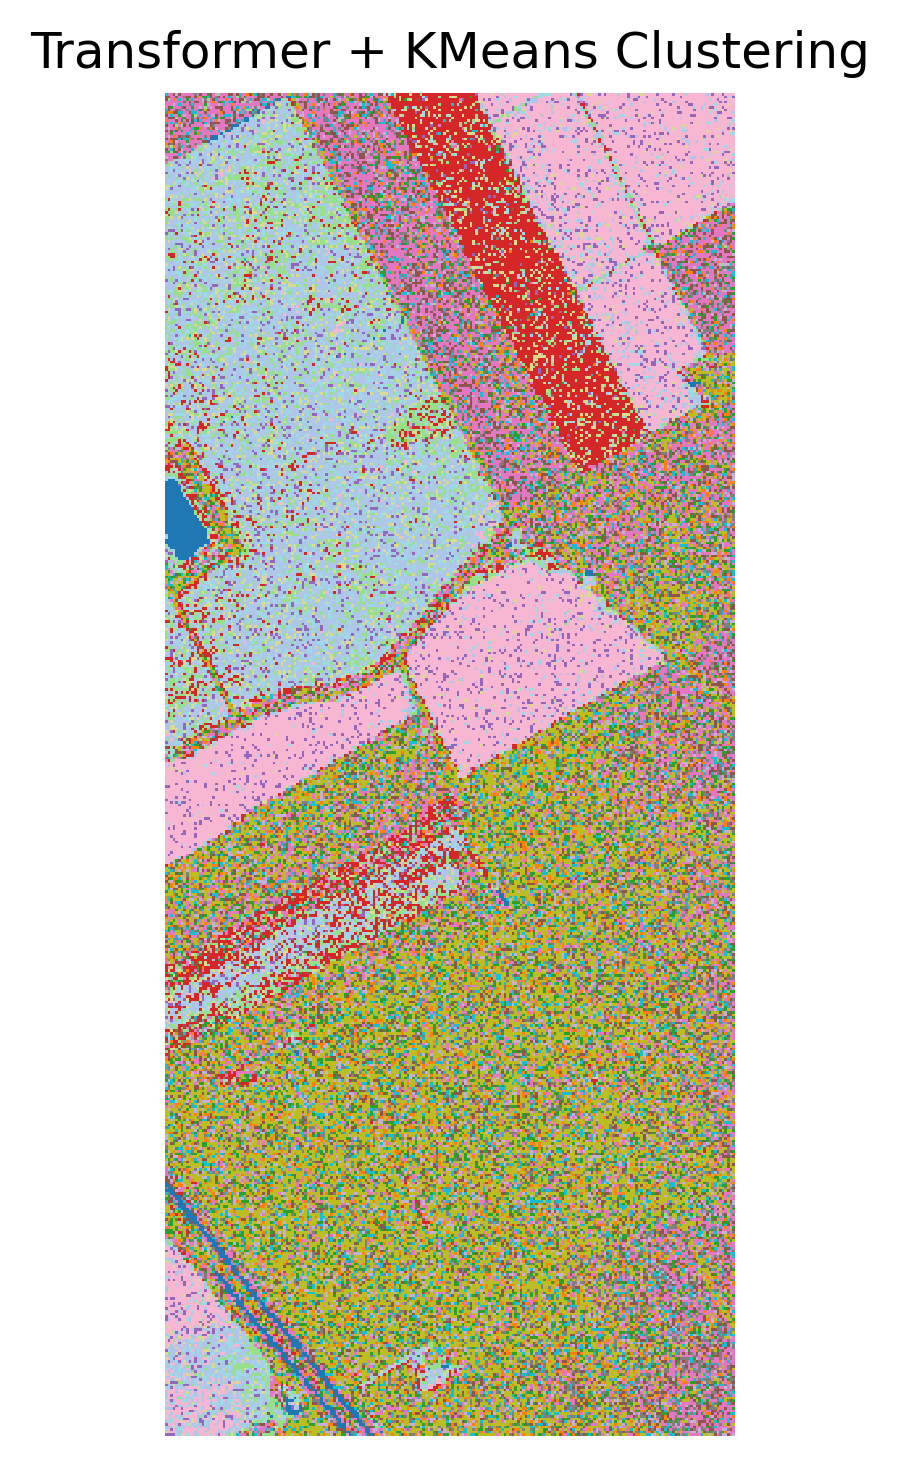
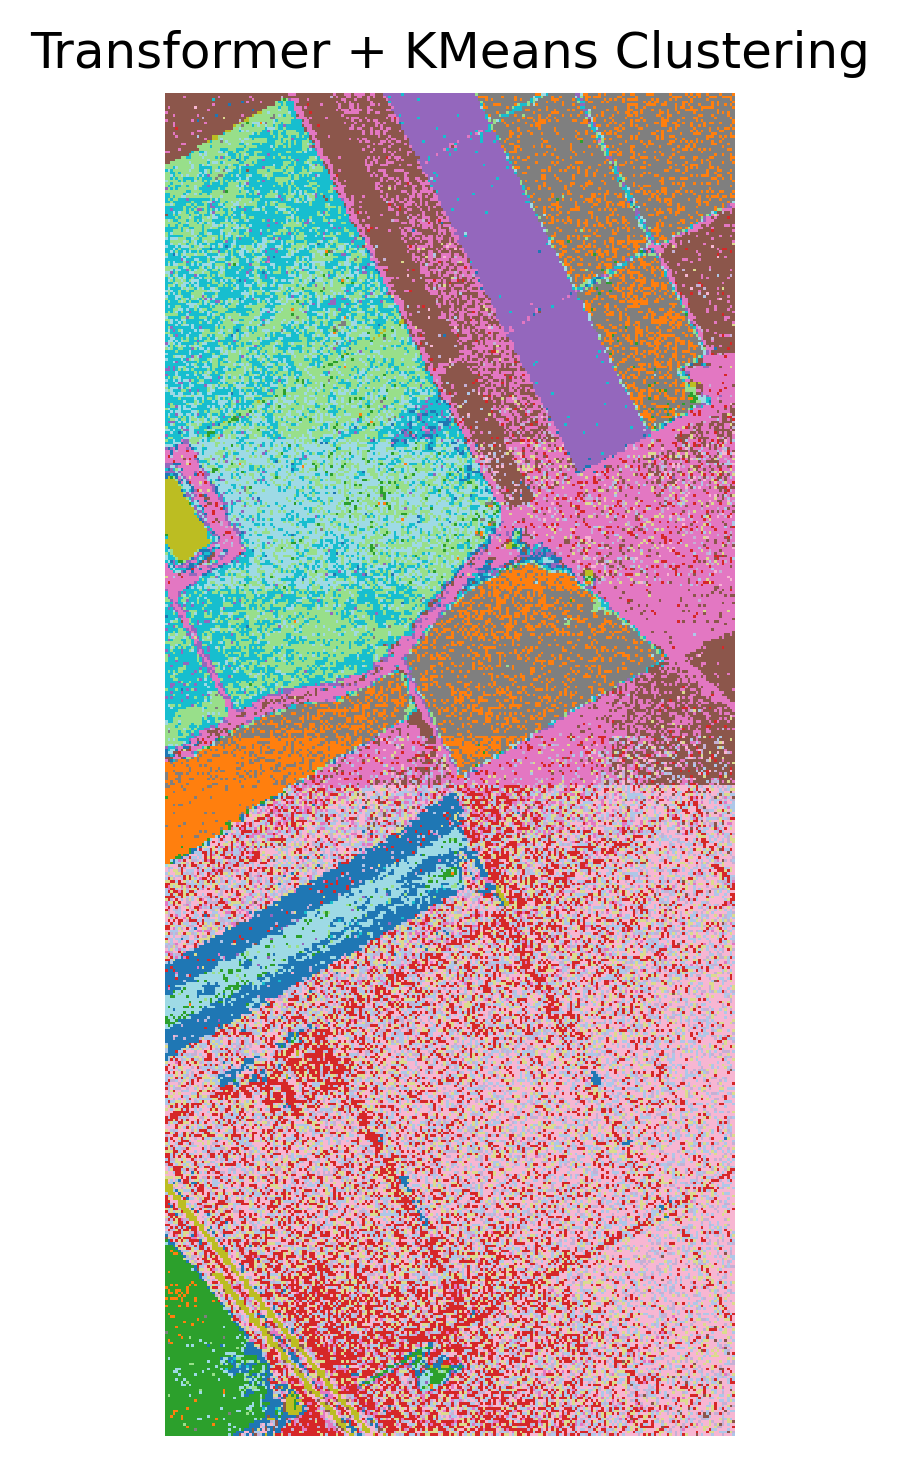
testing

diff --git a/main.py b/main.py
@@ -20,7 +20,7 @@ from utils.cluster_loss import soft_assign, kl_cluster_loss
 # 设置
 DATA_PATH = 'data/Salinas_corrected.mat'
 GT_PATH = 'data/Salinas_gt.mat'
-N_CLUSTERS = 16   # Salinas 有 16 类
+N_CLUSTERS = 16  # Salinas 有 16 类
 EPOCHS = 50
 TRANS_EPOCHS = 20
 CLUSTER_LR = 1e-4
@@ -28,6 +28,7 @@ LATENT_DIM = 64
 DEVICE = 'cuda' if torch.cuda.is_available() else 'cpu'
 # 根据显存限制决定一次送入 Transformer 的像素数量
 SEQ_BATCH = 4096
+
 
 def main():
     # 1. 加载并预处理数据
@@ -40,7 +41,11 @@ def main():
     # 2. 构建模型
     print("Building models...")
     autoencoder = Autoencoder(input_dim=X.shape[1], latent_dim=LATENT_DIM).to(DEVICE)
-    transformer = TransformerClusterNet(embed_dim=LATENT_DIM, output_dim=LATENT_DIM).to(DEVICE)
+    transformer = TransformerClusterNet(
+        embed_dim=LATENT_DIM,
+        output_dim=LATENT_DIM,
+        n_clusters=N_CLUSTERS,
+    ).to(DEVICE)
 
     # 3. 训练 Autoencoder
     print("Training autoencoder...")
@@ -64,29 +69,31 @@ def main():
         ae_features, _ = autoencoder(torch.tensor(X, dtype=torch.float32).to(DEVICE))
         ae_features = ae_features.to(DEVICE)
 
-    # 5. 通过 KL 聚类损失训练 Transformer
-    print("Training transformer with cluster loss...")
-    init_centers = (
-        KMeans(n_clusters=N_CLUSTERS, random_state=0)
-        .fit(ae_features.cpu().numpy())
-        .cluster_centers_
+        # 5. 使用 KMeans 生成伪标签训练 Transformer
+    print("Generating pseudo labels with KMeans...")
+    init_labels = KMeans(n_clusters=N_CLUSTERS, random_state=0).fit_predict(
+        ae_features.cpu().numpy()
     )
-    prototypes = nn.Parameter(torch.tensor(init_centers, dtype=torch.float32).to(DEVICE))
-    optimizer_t = optim.Adam(list(transformer.parameters()) + [prototypes], lr=CLUSTER_LR)
+    pseudo_labels = torch.tensor(init_labels, dtype=torch.long, device=DEVICE)
+
+    print("Training transformer with pseudo labels...")
+    optimizer_t = optim.Adam(transformer.parameters(), lr=CLUSTER_LR)
+    ce_loss = nn.CrossEntropyLoss()
     transformer.train()
     for epoch in range(TRANS_EPOCHS):
         perm = torch.randperm(ae_features.size(0))
         for i in range(0, ae_features.size(0), SEQ_BATCH):
-            idx = perm[i : i + SEQ_BATCH]
-            chunk = ae_features[idx].unsqueeze(0)
-            embed_chunk = transformer(chunk).squeeze(0)
-            q = soft_assign(embed_chunk, prototypes)
-            loss = kl_cluster_loss(q)
+            idx = perm[i: i + SEQ_BATCH]
+            chunk = ae_features[idx]
+            labs = pseudo_labels[idx]
+            _, logits = transformer(chunk.unsqueeze(0), return_logits=True)
+            logits = logits.squeeze(0)
+            loss = ce_loss(logits, labs)
             optimizer_t.zero_grad()
             loss.backward()
             optimizer_t.step()
         if epoch % 5 == 0 or epoch == TRANS_EPOCHS - 1:
-            print(f"Transformer Epoch {epoch:02d}: Cluster Loss = {loss.item():.4f}")
+            print(f"Transformer Epoch {epoch:02d}: CE Loss = {loss.item():.4f}")
 
     # 6. Transformer 特征提取
     print("Extracting features with transformer...")
@@ -98,7 +105,7 @@ def main():
         else:
             outputs = []
             for i in range(0, ae_features.size(0), SEQ_BATCH):
-                chunk = ae_features[i : i + SEQ_BATCH].unsqueeze(0)
+                chunk = ae_features[i: i + SEQ_BATCH].unsqueeze(0)
                 out = transformer(chunk).squeeze(0)
                 outputs.append(out.cpu())
             embed = torch.cat(outputs, dim=0).numpy()
@@ -108,7 +115,8 @@ def main():
     pred_labels = KMeans(n_clusters=N_CLUSTERS, random_state=42).fit_predict(embed)
 
     # 8. 可视化 + 评估
-    visualize_clusters(pred_labels, H, W, title='Transformer + KMeans Clustering', save_path='views/transformer_kmeans.png')
+    visualize_clusters(pred_labels, H, W, title='Transformer + KMeans Clustering',
+                       save_path='views/transformer_kmeans.png')
     gt = load_ground_truth(GT_PATH).reshape(-1)
     mask = gt > 0
     scores = evaluate_all(gt[mask], pred_labels[mask])
@@ -121,6 +129,7 @@ def main():
     #     masked_labels = labels[mask]
     #     metrics = evaluate_all(gt[mask], masked_labels)
     #     print(f"[{method}] Evaluation:", metrics)
+
 
 if __name__ == '__main__':
     main()

diff --git a/modules/transformer_model.py b/modules/transformer_model.py
@@ -1,7 +1,6 @@
-import torch
-import torch.nn as nn
 import torch.nn.functional as F
-
+import torch.nn as nn
+import torch
 class TransformerEncoderLayer(nn.Module):
     def __init__(self, embed_dim, n_heads=4, ff_dim=128, dropout=0.1):
         super().__init__()
@@ -25,7 +24,7 @@ class TransformerEncoderLayer(nn.Module):
         return x
 
 class TransformerClusterNet(nn.Module):
-    def __init__(self, embed_dim=64, output_dim=64, n_layers=2, max_seq_len=8192):
+    def __init__(self, embed_dim=64, output_dim=64, n_layers=2, n_clusters=None, max_seq_len=8192):
         super().__init__()
         self.input_proj = nn.Linear(embed_dim, embed_dim)
         self.pos_embed = nn.Parameter(torch.randn(1, max_seq_len, embed_dim))
@@ -33,9 +32,10 @@ class TransformerClusterNet(nn.Module):
             *[TransformerEncoderLayer(embed_dim) for _ in range(n_layers)]
         )
         self.output_proj = nn.Linear(embed_dim, output_dim)
+        self.cls_head = nn.Linear(output_dim, n_clusters) if n_clusters is not None else None
         self.max_seq_len = max_seq_len
 
-    def forward(self, x):
+    def forward(self, x, return_logits=False):
         """Forward pass.
 
         Parameters
@@ -69,8 +69,17 @@ class TransformerClusterNet(nn.Module):
         x = x + pos_emb
 
         x = self.encoder(x)
-        x = self.output_proj(x)
+        feat = self.output_proj(x)
+
+        logits = None
+        if return_logits and self.cls_head is not None:
+            logits = self.cls_head(feat)
 
         if orig_2d:
-            return x.squeeze(1)
-        return x
+            feat = feat.squeeze(1)
+            if logits is not None:
+                logits = logits.squeeze(1)
+
+        if return_logits and logits is not None:
+            return feat, logits
+        return feat
